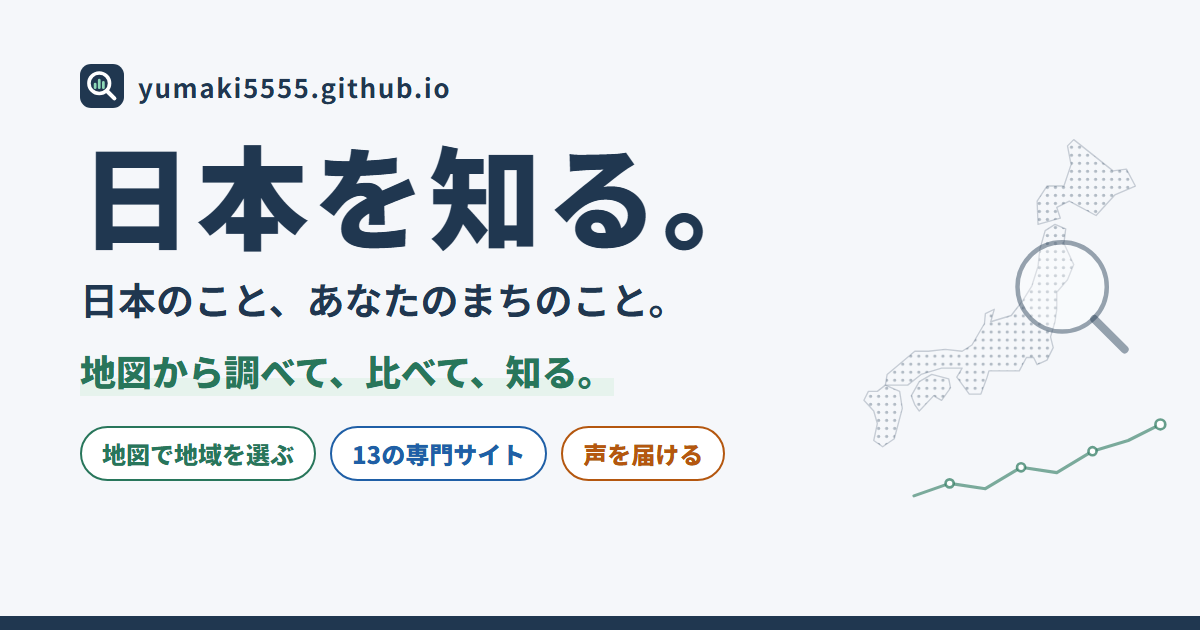
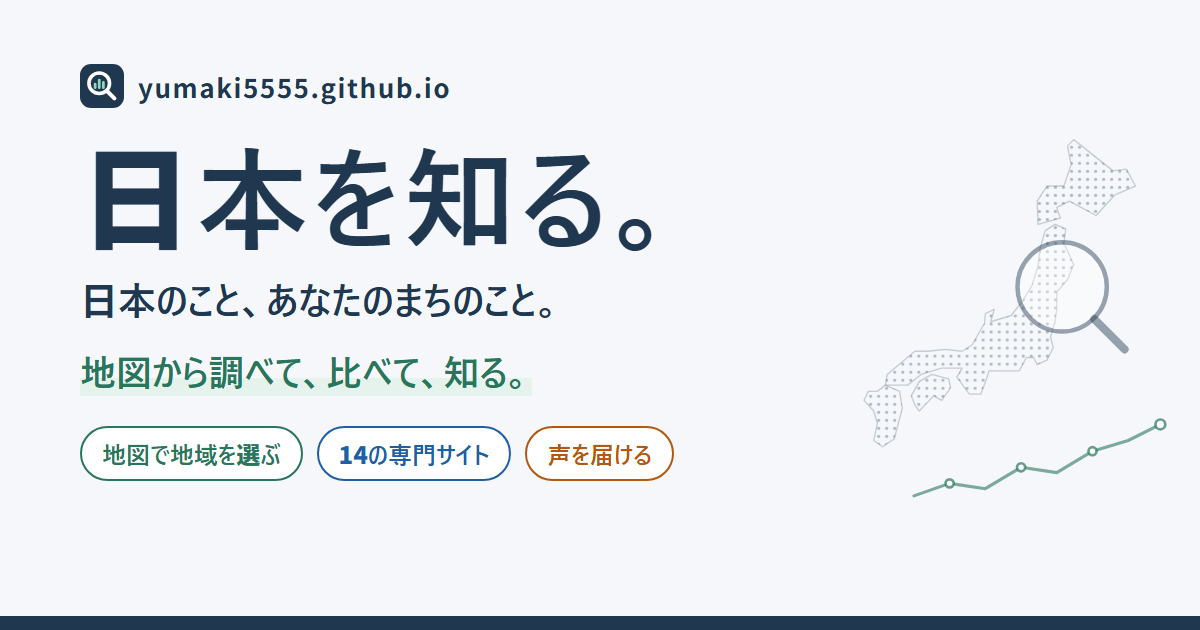
日本語学校・留学生 全国マップへのリンクを追加（テーマのカード・地域のカード・共通メニュー）

diff --git a/index.html b/index.html
@@ -4,12 +4,12 @@
 <meta charset="utf-8">
 <meta name="viewport" content="width=device-width, initial-scale=1">
 <title>日本を知る。｜地図から調べて、比べて、知る。</title>
-<meta name="description" content="日本地図で地域を選ぶと、外国人住民・モスク・民泊・多文化共生の予算・自治体の財政・海外との協定・意見募集・署名を、13の専門サイトでまとめて調べ始められる入口です。">
+<meta name="description" content="日本地図で地域を選ぶと、外国人住民・日本語学校・モスク・民泊・多文化共生の予算・自治体の財政・海外との協定・意見募集・署名を、14の専門サイトでまとめて調べ始められる入口です。">
 <link rel="canonical" href="https://yumaki5555.github.io/">
 <meta property="og:type" content="website">
 <meta property="og:site_name" content="日本を知る。">
 <meta property="og:title" content="日本を知る。｜地図から調べて、比べて、知る。">
-<meta property="og:description" content="日本地図で地域を選ぶと、外国人住民・モスク・民泊・多文化共生の予算・自治体の財政・海外との協定・意見募集・署名を、13の専門サイトでまとめて調べ始められる入口です。">
+<meta property="og:description" content="日本地図で地域を選ぶと、外国人住民・日本語学校・モスク・民泊・多文化共生の予算・自治体の財政・海外との協定・意見募集・署名を、14の専門サイトでまとめて調べ始められる入口です。">
 <meta property="og:url" content="https://yumaki5555.github.io/">
 <meta property="og:image" content="https://yumaki5555.github.io/ogp.png?v=20261104a">
 <meta property="og:image:width" content="1200">
@@ -31,12 +31,12 @@ setTimeout(function () { if (!window.ENTRY_READY) document.documentElement.class
 <!-- ?v= の日付は、css・js を直したら書きかえる（古いファイルが残らないように） -->
 <link rel="stylesheet" href="style.css?v=20261029i">
 <link rel="stylesheet" href="area.css?v=20261104a">
-<script src="sites.js?v=20261104a" defer></script>
-<script src="brand-icons.js?v=20261104a" defer></script>
+<script src="sites.js?v=20261106a" defer></script>
+<script src="brand-icons.js?v=20261106a" defer></script>
 <script src="site-cards.js?v=20261029g" defer></script>
 <script src="main.js?v=20261029d" defer></script>
 <script src="data/japan-map.js?v=20261028g" defer></script>
-<script src="region-topics.js?v=20261104a" defer></script>
+<script src="region-topics.js?v=20261106a" defer></script>
 <script src="region.js?v=20261029d" defer></script>
 </head>
 <body>
@@ -127,7 +127,7 @@ setTimeout(function () { if (!window.ENTRY_READY) document.documentElement.class
             <span class="section-icon"><svg class="ico" viewBox="0 0 24 24" aria-hidden="true" focusable="false"><path d="M12 21s-6.5-5.6-6.5-11a6.5 6.5 0 0 1 13 0c0 5.4-6.5 11-6.5 11z"/><circle cx="12" cy="10" r="2.4"/></svg></span>
             <div>
               <h2 id="h-area" tabindex="-1">地域から調べる</h2>
-              <p>地図で都道府県を押すか、名前で探してください。選んだ地域の情報を9つの専門サイトで、国全体の政策と世界の感染症も2つのサイトで調べられます。</p>
+              <p>地図で都道府県を押すか、名前で探してください。選んだ地域の情報を10の専門サイトで、国全体の政策と世界の感染症も2つのサイトで調べられます。</p>
             </div>
           </div>
 
@@ -177,7 +177,7 @@ setTimeout(function () { if (!window.ENTRY_READY) document.documentElement.class
         </div>
       </div>
 
-      <!-- 情報の画面：選んだ地域の名前（スクロールしても上に残る）と9つのカード -->
+      <!-- 情報の画面：選んだ地域の名前（スクロールしても上に残る）と10のカード -->
       <div class="area-result" id="area-result" aria-labelledby="area-result-title">
         <div class="area-current">
           <svg class="area-mini" aria-hidden="true" focusable="false" hidden></svg>
@@ -212,7 +212,7 @@ setTimeout(function () { if (!window.ENTRY_READY) document.documentElement.class
   <div class="themes-head" id="themes">
     <div class="wrap">
       <h2>テーマから探す</h2>
-      <p>13のサイトを、目的別に紹介しています。カードやボタンを押すと、それぞれのサイトが新しいタブで開きます。</p>
+      <p>14のサイトを、目的別に紹介しています。カードやボタンを押すと、それぞれのサイトが新しいタブで開きます。</p>
       <nav class="theme-jump" aria-label="テーマの分類">
         <a href="#research" class="cat-research">調べる・比較する<span class="tj-n"><span data-count="research">8</span>サイト</span></a>
         <a href="#learn" class="cat-learn">わかりやすく学ぶ<span class="tj-n"><span data-count="learn">2</span>サイト</span></a>
@@ -236,6 +236,7 @@ setTimeout(function () { if (!window.ENTRY_READY) document.documentElement.class
 <article class="card cat-research" id="site-zititai-karte"><div class="card-head"><span class="brand-ico" aria-hidden="true"><svg viewBox="0 0 32 32" focusable="false"><g fill="#fff"><rect x="5.4" y="17.3" width="5.7" height="8.2" rx=".6"/><rect x="13.2" y="12.2" width="5.7" height="13.3" rx=".6"/><rect x="21" y="6.5" width="5.7" height="19" rx=".6"/></g></svg></span><h3 class="card-title">自治体カルテ</h3></div><p class="card-summary">自治体のお金と人口をグラフで見る</p><ul class="card-points"><li>歳入・歳出の内訳と人口の推移</li><li>全国ランキングで順位を確認</li><li>最大3自治体を並べて比較</li></ul><div class="card-extra"><p class="card-credit">運営：自治体カルテさん（X <a href="https://x.com/zititai_karte" target="_blank" rel="noopener noreferrer">@zititai_karte<span class="sr-only">（新しいタブで開きます）</span></a>）</p></div><div class="card-foot"><a class="btn-site" href="https://www.zititai-karte.com/" target="_blank" rel="noopener noreferrer" aria-label="自治体カルテのサイトを見る（新しいタブで開きます）">サイトを見る<svg class="ico" viewBox="0 0 24 24" aria-hidden="true" focusable="false"><path d="M14 4.5h5.5V10"/><path d="M19.5 4.5 11 13"/><path d="M17.5 14v4.5a1 1 0 0 1-1 1h-11a1 1 0 0 1-1-1v-11a1 1 0 0 1 1-1H10"/></svg></a></div></article>
 <article class="card cat-research" id="site-tabunka-yosan"><div class="card-head"><span class="brand-ico" aria-hidden="true"><svg viewBox="0 0 32 32" focusable="false"><path fill="#fff" d="M14 18H24A10 10 0 1 1 14 8ZM18 14V4A10 10 0 0 1 28 14Z"/></svg></span><h3 class="card-title">全国 多文化共生予算マップ</h3></div><p class="card-summary">外国人に関係する事業の予算を調べる</p><ul class="card-points"><li>日本語学習・相談・学校支援などの予算と決算</li><li>使い道と財源の内訳、ほかの自治体・年度との比較</li><li>地図・自治体名から探す</li></ul><div class="card-extra"><p class="card-note">調べた自治体から順に公開中</p><p class="card-guide"><a class="pair-link" href="https://yumaki5555.github.io/tabunka-yosan/#/guide" target="_blank" rel="noopener noreferrer">まず3分で知る<svg class="ico" viewBox="0 0 24 24" aria-hidden="true" focusable="false"><path d="M14 4.5h5.5V10"/><path d="M19.5 4.5 11 13"/><path d="M17.5 14v4.5a1 1 0 0 1-1 1h-11a1 1 0 0 1-1-1v-11a1 1 0 0 1 1-1H10"/></svg><span class="sr-only">（3分でわかる 多文化共生予算が新しいタブで開きます）</span></a></p><p class="card-updated" data-update-url="https://yumaki5555.github.io/tabunka-yosan/" hidden></p></div><div class="card-foot"><a class="btn-site" href="https://yumaki5555.github.io/tabunka-yosan/" target="_blank" rel="noopener noreferrer" aria-label="全国 多文化共生予算マップのサイトを見る（新しいタブで開きます）">サイトを見る<svg class="ico" viewBox="0 0 24 24" aria-hidden="true" focusable="false"><path d="M14 4.5h5.5V10"/><path d="M19.5 4.5 11 13"/><path d="M17.5 14v4.5a1 1 0 0 1-1 1h-11a1 1 0 0 1-1-1v-11a1 1 0 0 1 1-1H10"/></svg></a></div></article>
 <article class="card cat-research" id="site-zairyu"><div class="card-head"><span class="brand-ico" aria-hidden="true"><svg viewBox="0 0 32 32" focusable="false"><g fill="#fff"><rect x="5" y="16" width="6" height="10" rx="1"/><rect x="13" y="6" width="6" height="20" rx="1"/><rect x="21" y="12" width="6" height="14" rx="1"/></g></svg></span><h3 class="card-title">数でみる在留外国人</h3></div><p class="card-summary">外国人住民の数を地域・国籍で調べる</p><ul class="card-points"><li>都道府県・市区町村・国籍から人数を検索</li><li>在留資格（日本に住むための資格）ごとの内訳</li><li>1959年からの推移を地図で再生・半期ごとの速報</li></ul><div class="card-extra"><p class="pair"><a class="pair-link" href="https://nihon-kurashi-zairyu-guide.sunlitmole256.chatgpt.site/" target="_blank" rel="noopener noreferrer">図でやさしく知る<svg class="ico" viewBox="0 0 24 24" aria-hidden="true" focusable="false"><path d="M14 4.5h5.5V10"/><path d="M19.5 4.5 11 13"/><path d="M17.5 14v4.5a1 1 0 0 1-1 1h-11a1 1 0 0 1-1-1v-11a1 1 0 0 1 1-1H10"/></svg><span class="sr-only">（図で見る、日本に住む外国人が新しいタブで開きます）</span></a></p><p class="card-updated" data-update-url="https://yumaki5555.github.io/zairyu/index.html" hidden></p></div><div class="card-foot"><a class="btn-site" href="https://yumaki5555.github.io/zairyu/index.html" target="_blank" rel="noopener noreferrer" aria-label="数でみる在留外国人のサイトを見る（新しいタブで開きます）">サイトを見る<svg class="ico" viewBox="0 0 24 24" aria-hidden="true" focusable="false"><path d="M14 4.5h5.5V10"/><path d="M19.5 4.5 11 13"/><path d="M17.5 14v4.5a1 1 0 0 1-1 1h-11a1 1 0 0 1-1-1v-11a1 1 0 0 1 1-1H10"/></svg></a></div></article>
+<article class="card cat-research" id="site-nihongo-school-map"><div class="card-head"><span class="brand-ico" aria-hidden="true"><svg viewBox="0 0 32 32" focusable="false"><path d="M5 7h22v20H5z" fill="#fff"/><g fill="currentColor"><rect x="7.5" y="10" width="4" height="4"/><rect x="14" y="10" width="4" height="4"/><rect x="20.5" y="10" width="4" height="4"/><rect x="7.5" y="17" width="4" height="4"/><rect x="20.5" y="17" width="4" height="4"/><rect x="13.5" y="18.5" width="5" height="8.5"/></g></svg></span><h3 class="card-title">日本語学校・留学生 全国マップ</h3></div><p class="card-summary">日本語学校の数と場所を地図で調べる</p><ul class="card-points"><li>都道府県・市区町村から学校を探す</li><li>地域ごとの学校の数を見る</li><li>国の資料と各校サイトの出典を確認</li></ul><div class="card-extra"><p class="card-guide"><a class="pair-link" href="https://yumaki5555.github.io/nihongo-school-map/guide.html" target="_blank" rel="noopener noreferrer">まず3分で知る<svg class="ico" viewBox="0 0 24 24" aria-hidden="true" focusable="false"><path d="M14 4.5h5.5V10"/><path d="M19.5 4.5 11 13"/><path d="M17.5 14v4.5a1 1 0 0 1-1 1h-11a1 1 0 0 1-1-1v-11a1 1 0 0 1 1-1H10"/></svg><span class="sr-only">（3分でわかる 日本語学校と留学生が新しいタブで開きます）</span></a></p><p class="card-updated" data-update-url="https://yumaki5555.github.io/nihongo-school-map/" hidden></p></div><div class="card-foot"><a class="btn-site" href="https://yumaki5555.github.io/nihongo-school-map/" target="_blank" rel="noopener noreferrer" aria-label="日本語学校・留学生 全国マップのサイトを見る（新しいタブで開きます）">サイトを見る<svg class="ico" viewBox="0 0 24 24" aria-hidden="true" focusable="false"><path d="M14 4.5h5.5V10"/><path d="M19.5 4.5 11 13"/><path d="M17.5 14v4.5a1 1 0 0 1-1 1h-11a1 1 0 0 1-1-1v-11a1 1 0 0 1 1-1H10"/></svg></a></div></article>
 <article class="card cat-research" id="site-minpaku-map"><div class="card-head"><span class="brand-ico" aria-hidden="true"><svg viewBox="0 0 32 32" focusable="false"><g fill="#fff"><path d="M4 6h4v12h20v8h-4v-4H8v4H4z"/><rect x="10" y="12" width="6" height="4" rx="2"/><path d="M18 18v-4a2 2 0 0 1 2-2h6a2 2 0 0 1 2 2v4z"/></g></svg></span><h3 class="card-title">民泊・旅館業マップ</h3></div><p class="card-summary">民泊・旅館業の施設を地図で探す</p><ul class="card-points"><li>住所・市区町村で探して地図の点で確認</li><li>市区町村ごとの件数ランキング</li><li>前回の資料からの増減</li></ul><div class="card-extra"><p class="card-updated" data-update-url="https://yumaki5555.github.io/minpaku-map/" hidden></p></div><div class="card-foot"><a class="btn-site" href="https://yumaki5555.github.io/minpaku-map/" target="_blank" rel="noopener noreferrer" aria-label="民泊・旅館業マップのサイトを見る（新しいタブで開きます）">サイトを見る<svg class="ico" viewBox="0 0 24 24" aria-hidden="true" focusable="false"><path d="M14 4.5h5.5V10"/><path d="M19.5 4.5 11 13"/><path d="M17.5 14v4.5a1 1 0 0 1-1 1h-11a1 1 0 0 1-1-1v-11a1 1 0 0 1 1-1H10"/></svg></a></div></article>
 <article class="card cat-research" id="site-mosque-map"><div class="card-head"><span class="brand-ico" aria-hidden="true"><svg viewBox="0 0 32 32" focusable="false"><path d="M16.5 2.8a3 3 0 1 0 2.3 5a2.3 2.3 0 1 1-2.3-5z" fill="#BFD7F2"/><path d="M16 9C12.5 13 6 14 6 20h20c0-6-6.5-7-10-11z" fill="#fff"/><path d="M4.5 21h23v7h-23z" fill="#fff"/><path d="M13.8 28v-3.5a2.2 2.2 0 0 1 4.4 0V28z" fill="currentColor"/></svg></span><h3 class="card-title">日本のモスク情報</h3></div><p class="card-summary">モスク・礼拝所を出典付きで調べる</p><ul class="card-points"><li>地図・都道府県から施設を探す</li><li>運営団体・建設計画・寄付の募集</li><li>葬儀・土葬墓地の調査結果</li></ul><div class="card-extra"><p class="pair"><a class="pair-link" href="https://mosque-info-explorer.sunlitmole256.chatgpt.site/" target="_blank" rel="noopener noreferrer">図でやさしく知る<svg class="ico" viewBox="0 0 24 24" aria-hidden="true" focusable="false"><path d="M14 4.5h5.5V10"/><path d="M19.5 4.5 11 13"/><path d="M17.5 14v4.5a1 1 0 0 1-1 1h-11a1 1 0 0 1-1-1v-11a1 1 0 0 1 1-1H10"/></svg><span class="sr-only">（日本のモスクを知るが新しいタブで開きます）</span></a></p><p class="card-updated" data-update-url="https://yumaki5555.github.io/mosque-map/" hidden></p></div><div class="card-foot"><a class="btn-site" href="https://yumaki5555.github.io/mosque-map/" target="_blank" rel="noopener noreferrer" aria-label="日本のモスク情報のサイトを見る（新しいタブで開きます）">サイトを見る<svg class="ico" viewBox="0 0 24 24" aria-hidden="true" focusable="false"><path d="M14 4.5h5.5V10"/><path d="M19.5 4.5 11 13"/><path d="M17.5 14v4.5a1 1 0 0 1-1 1h-11a1 1 0 0 1-1-1v-11a1 1 0 0 1 1-1H10"/></svg></a></div></article>
 <article class="card cat-research" id="site-kansensho"><div class="card-head"><span class="brand-ico" aria-hidden="true"><svg viewBox="0 0 32 32" focusable="false"><path d="M5 17h5l3-7 5 13 3-6h6" fill="none" stroke="#fff" stroke-width="2.6" stroke-linecap="round" stroke-linejoin="round"/></svg></span><h3 class="card-title">世界の感染症と日本の水際対策</h3></div><p class="card-summary">感染症の国別状況と水際対策を調べる</p><ul class="card-points"><li>HIV・梅毒・はしか・結核を国別に比較</li><li>国・在留資格から入国時の検査を確認</li><li>日本の患者数の推移と治療費の負担</li></ul><div class="card-extra"><p class="card-guide"><a class="pair-link" href="https://yumaki5555.github.io/kansensho/#sanpun-tb" target="_blank" rel="noopener noreferrer">まず3分で知る<svg class="ico" viewBox="0 0 24 24" aria-hidden="true" focusable="false"><path d="M14 4.5h5.5V10"/><path d="M19.5 4.5 11 13"/><path d="M17.5 14v4.5a1 1 0 0 1-1 1h-11a1 1 0 0 1-1-1v-11a1 1 0 0 1 1-1H10"/></svg><span class="sr-only">（まず3分でわかる（結核編・HIV/エイズ編）が新しいタブで開きます）</span></a></p><p class="card-updated" data-update-url="https://yumaki5555.github.io/kansensho/" hidden></p></div><div class="card-foot"><a class="btn-site" href="https://yumaki5555.github.io/kansensho/" target="_blank" rel="noopener noreferrer" aria-label="世界の感染症と日本の水際対策のサイトを見る（新しいタブで開きます）">サイトを見る<svg class="ico" viewBox="0 0 24 24" aria-hidden="true" focusable="false"><path d="M14 4.5h5.5V10"/><path d="M19.5 4.5 11 13"/><path d="M17.5 14v4.5a1 1 0 0 1-1 1h-11a1 1 0 0 1-1-1v-11a1 1 0 0 1 1-1H10"/></svg></a></div></article>
@@ -279,7 +280,7 @@ setTimeout(function () { if (!window.ENTRY_READY) document.documentElement.class
   </div>
 
   <noscript>
-    <div class="wrap"><p class="noscript">地図と地域の選択を使うには、ブラウザの JavaScript を有効にしてください。13のサイトは、上の「テーマから探す」から開けます。</p></div>
+    <div class="wrap"><p class="noscript">地図と地域の選択を使うには、ブラウザの JavaScript を有効にしてください。14のサイトは、上の「テーマから探す」から開けます。</p></div>
   </noscript>
 
   <section class="about" id="about" aria-labelledby="h-about">
@@ -327,7 +328,7 @@ setTimeout(function () { if (!window.ENTRY_READY) document.documentElement.class
           <ul>
             <li>地域を選んだときに、各専門サイトが公開しているデータファイルをブラウザで読み込み、その地域の分を数えて表示します。このサイトに数値を書き写してはいないので、各サイトが更新されると、数値も新しくなります。</li>
             <li>数値は、各サイトが集計した時点のものです（リアルタイムの値ではありません）。カードに「〇年〇月末時点」「〇月〇日集計」のように書いています。</li>
-            <li>読み込むのは、在留外国人＝その地域のページ、モスク＝施設の一覧（CSV）、民泊・パブコメ・署名＝各サイトのページに入っているデータ、多文化共生予算・MOU＝件数のまとめファイルです。自治体カルテはほかの方のサイトのため、数値は読み込みません。</li>
+            <li>読み込むのは、在留外国人＝その地域のページ、モスク＝施設の一覧（CSV）、民泊・パブコメ・署名＝各サイトのページに入っているデータ、多文化共生予算・MOU・日本語学校＝件数のまとめファイルです。自治体カルテはほかの方のサイトのため、数値は読み込みません。</li>
             <li>同じデータは、ページを開いている間は読み直しません。地域を変えても、一度読んだデータを使います。地域を選ぶまでは、何も読み込みません。</li>
             <li>数値の下の補足（在留外国人の1年前との差、民泊の前回の資料との差、多文化共生予算のいちばん大きい使い道、パブコメのいちばん近い締切）は、同じ条件で比べられるときだけ出しています。比べる元がないとき・調べる範囲が変わったときは出しません。</li>
             <li>在留外国人の1年前との差は、出入国在留管理庁「在留外国人統計」の同じ時点（例：12月末と前年12月末）の比較です。民泊の前回比は、自治体が公表した同じ一覧の前の版との差で、新しく加えた県や、県全体の一覧から市町村に分けた数には出しません。</li>

diff --git a/region-topics.js b/region-topics.js
@@ -1,4 +1,4 @@
-// 「地域から調べる」のカード（地域の9分野＋全国共通の2サイト）
+// 「地域から調べる」のカード（地域の10分野＋全国共通の2サイト）
 // それぞれのカードは、選んだ地域を専門サイトへ引き継ぐリンクと、取れるときだけ代表的な数値を出します。
 // 全国共通の2サイト（政策ログJP・世界の感染症と日本の水際対策）は地域を引き継がず、数値も出しません（「全国共通」と表示）。
 //
@@ -24,6 +24,7 @@
     mosque: "https://mosque-info-explorer.sunlitmole256.chatgpt.site/",               // 日本のモスクを知る（region.html?pref=県名 で県の要約）
     tabunka: GH + "tabunka-yosan/#/guide",                                             // 3分でわかる 多文化共生予算
     mou: GH + "mou-map/#/guide",                                                       // 3分でわかるMOU
+    school: GH + "nihongo-school-map/guide.html",                                      // 3分でわかる 日本語学校と留学生
     kansensho: GH + "kansensho/#sanpun-tb"                                             // まず3分でわかる（結核編。HIV/エイズ編へも切りかえられる）
   };
   var TIMEOUT = 15000; // これより長くかかったら「取得失敗」にする（ミリ秒）
@@ -135,6 +136,7 @@
   var load = {
     minpaku: function () { return once("minpaku", function () { return getText(GH + "minpaku-map/").then(function (h) { return embedded(h, "site-data"); }); }); },
     tabunka: function () { return once("tabunka", function () { return getJSON(GH + "tabunka-yosan/data/dist/summary.json"); }); },
+    school: function () { return once("school", function () { return getJSON(GH + "nihongo-school-map/data/regions.json"); }); },
     mou: function () { return once("mou", function () { return getJSON(GH + "mou-map/data/build/summary.json"); }); },
     pubPref: function () { return once("pubPref", function () { return getText(GH + "pubcome/pref/").then(function (h) { return embedded(h, "data"); }); }); },
     pubCity: function () { return once("pubCity", function () { return getText(GH + "pubcome/city/").then(function (h) { return embedded(h, "data"); }); }); },
@@ -185,7 +187,7 @@
     }
   };
 
-  // ---------- 9つのカード ----------
+  // ---------- 10のカード ----------
   // icon   … アイコンの形（brand-icons.js の名前。リンク先のファビコンと同じ形）
   // q      … 地域名を入れた1行の問いかけ（n＝選んだ地域の名前、a＝選んだ地域）
   // see    … そのサイトで見られることを短く（文字列、または n・a を受け取る関数）
@@ -257,6 +259,37 @@
               note: (w ? w[1] + "年" + (+w[2]) + "月末時点。" : "") + "出典：出入国在留管理庁「在留外国人統計」"
             }
           };
+        });
+      }
+    },
+    {
+      id: "school", group: "now", icon: "school", title: "日本語学校", site: "日本語学校・留学生 全国マップ",
+      top: GH + "nihongo-school-map/",
+      q: function (n) { return n ? n + "に日本語学校はいくつある？" : "日本に日本語学校はいくつある？"; },
+      see: "学校の場所と数を地図で見る",
+      guide: function () { return { label: "まず3分で知る", site: "3分でわかる 日本語学校と留学生", href: GUIDE.school }; },
+      link: function (a) {
+        var base = GH + "nihongo-school-map/?pref=" + a.pref;
+        // マップの政令指定都市は区ごとなので、市全体を選んだときは都道府県のページを開く
+        if (a.muni && a.muni.seirei) return { href: base, scope: "wider", text: pname(a) + "のページが開きます" };
+        if (a.muni) return { href: base + "&city=" + a.muni.code.slice(0, 5), scope: "exact", text: a.muni.name + "を選んだ状態で開きます" };
+        return { href: base, scope: "exact", text: pname(a) + "のページが開きます" };
+      },
+      resolve: function (a) {
+        return load.school().then(function (R) {
+          var p = R.prefs[a.pref];
+          if (!p) return {};
+          var when = "（" + jdate(R.generated) + "更新）";
+          if (!a.muni) return { stat: { value: num(p.n) + "<small>校</small>", note: "国の資料をもとに数えています" + when + "。" } };
+          // 住所が分からない学校は市区町村を決められないので、市区町村の数は住所を確認できた学校だけ
+          var n = 0;
+          (p.cities || []).forEach(function (c) {
+            if (a.muni.seirei ? c.name.indexOf(a.muni.name) === 0 : c.code === a.muni.code.slice(0, 5)) n += c.n;
+          });
+          var date = jdate(R.generated) + "更新。";
+          if (!n && p.no_city) return { stat: { state: "unconfirmed", value: "見つかっていません", note: date } };
+          if (!n) return { stat: { state: "zero", value: "0<small>校</small>", note: date } };
+          return { stat: { value: num(n) + "<small>校</small>", note: date } };
         });
       }
     },

diff --git a/brand-icons.js b/brand-icons.js
@@ -8,6 +8,7 @@
 //   zairyu … 数でみる在留外国人（3本の棒グラフ）   tabunka … 全国 多文化共生予算マップ（円グラフ）
 //   minpaku … 民泊・旅館業マップ（ベッド）          mosque … 日本のモスク情報（ドームと三日月）
 //   kansensho … 世界の感染症と日本の水際対策（心拍の線）
+//   school … 日本語学校・留学生 全国マップ（窓と入口のある校舎）
 //   pubcome … パブコメ掲示板（吹き出し）            shomei … 署名掲示板（署名用紙とペン）
 //   todokeru … 声を届ける（線の吹き出し。サイトのファビコンと同じ形）
 //   mou … 日本と世界のMOU・協定マップ（地球。2026年10月29日夜にサイトのファビコンが「M」から地球に変わったのに合わせた）
@@ -36,6 +37,9 @@
       '<path d="M16 9C12.5 13 6 14 6 20h20c0-6-6.5-7-10-11z" fill="#fff"/>' +
       '<path d="M4.5 21h23v7h-23z" fill="#fff"/>' +
       '<path d="M13.8 28v-3.5a2.2 2.2 0 0 1 4.4 0V28z" fill="currentColor"/>',
+    school:
+      '<path d="M5 7h22v20H5z" fill="#fff"/>' +
+      '<g fill="currentColor"><rect x="7.5" y="10" width="4" height="4"/><rect x="14" y="10" width="4" height="4"/><rect x="20.5" y="10" width="4" height="4"/><rect x="7.5" y="17" width="4" height="4"/><rect x="20.5" y="17" width="4" height="4"/><rect x="13.5" y="18.5" width="5" height="8.5"/></g>',
     kansensho:
       '<path d="M5 17h5l3-7 5 13 3-6h6" fill="none" stroke="#fff" stroke-width="2.6" stroke-linecap="round" stroke-linejoin="round"/>',
     todokeru:

diff --git a/shared/site-nav.js b/shared/site-nav.js
@@ -26,6 +26,7 @@
     {"id":"zititai-karte","name":"自治体カルテ","url":"https://www.zititai-karte.com/","category":"research","other":true},
     {"id":"tabunka-yosan","name":"全国 多文化共生予算マップ","url":"https://yumaki5555.github.io/tabunka-yosan/","category":"research"},
     {"id":"zairyu","name":"数でみる在留外国人","url":"https://yumaki5555.github.io/zairyu/index.html","category":"research"},
+    {"id":"nihongo-school-map","name":"日本語学校・留学生 全国マップ","url":"https://yumaki5555.github.io/nihongo-school-map/","category":"research"},
     {"id":"minpaku-map","name":"民泊・旅館業マップ","url":"https://yumaki5555.github.io/minpaku-map/","category":"research"},
     {"id":"mosque-map","name":"日本のモスク情報","url":"https://yumaki5555.github.io/mosque-map/","category":"research"},
     {"id":"kansensho","name":"世界の感染症と日本の水際対策","url":"https://yumaki5555.github.io/kansensho/","category":"research"},

diff --git a/sites.js b/sites.js
@@ -82,6 +82,17 @@ window.SITES = [
     pair: { id: "zairyu-guide", label: "図でやさしく知る", nameless: true }
   },
   {
+    id: "nihongo-school-map",
+    category: "research",
+    name: "日本語学校・留学生 全国マップ",
+    url: "https://yumaki5555.github.io/nihongo-school-map/",
+    icon: "school",
+    summary: "日本語学校の数と場所を地図で調べる",
+    points: ["都道府県・市区町村から学校を探す", "地域ごとの学校の数を見る", "国の資料と各校サイトの出典を確認"],
+    guide: { label: "まず3分で知る", site: "3分でわかる 日本語学校と留学生", url: "https://yumaki5555.github.io/nihongo-school-map/guide.html" },
+    checkUpdate: true
+  },
+  {
     id: "minpaku-map",
     category: "research",
     name: "民泊・旅館業マップ",

diff --git a/_ogp/ogp.html b/_ogp/ogp.html
@@ -53,7 +53,7 @@ h1{margin:22px 0 0;color:var(--navy);font-weight:900;font-size:112px;line-height
   <p class="catch">地図から調べて、比べて、知る。</p>
   <div class="chips">
     <span class="chip" style="--c:var(--learn)">地図で地域を選ぶ</span>
-    <span class="chip" style="--c:var(--research)">13の専門サイト</span>
+    <span class="chip" style="--c:var(--research)">14の専門サイト</span>
     <span class="chip" style="--c:var(--participate)">声を届ける</span>
   </div>
 </div>

diff --git a/README.md b/README.md
@@ -7,12 +7,12 @@
 | ファイル | 役割 |
 |---|---|
 | `index.html` | ページの骨組み（入口の2つのタブ「地域から調べる」「テーマから探す」・このサイトについて・掲載情報について） |
-| `sites.js` | **掲載サイトの一覧**（テーマから探すの12枚のカード）。サイトを足す・直すときはここだけ書きかえる |
+| `sites.js` | **掲載サイトの一覧**（テーマから探すの14枚のカード）。サイトを足す・直すときはここだけ書きかえる |
 | `site-cards.js` | 「テーマから探す」のカードのHTMLを作る（`main.js` と `_tools/build_cards.mjs` が使う） |
 | `shared/site-nav.js` | **全サイト共通メニュー**（日本を知る。｜声を届ける｜ほかのサイト ▾）。各サイトが読み込む部品。ここを直すと、置いたサイトすべてに効く（公開前に見本で確認すること）。一覧の部分は `_tools/build_cards.mjs` が `sites.js` から書きこむ |
 | `main.js` | **ページの状態と URL をまとめて扱う**（`window.PortalState`。URL を読む・書きかえる・戻る／進むはここだけ）、入口の2つのタブの切りかえ、テーマのカードを sites.js から作り直す（テーマを初めて開いたとき）、スマホのメニュー、上へ戻るボタン、ページの更新日の読み取り |
 | `region.js` | 「地域から調べる」の地図（地方ごとの拡大）・名前で探す・一覧から選ぶ・選ぶ画面と情報の画面の切りかえ。地域が変わったら `PortalState.set` で URL を頼み、`PortalState.on` で戻る／進むを受け取る（自分では URL を読まない） |
-| `region-topics.js` | **地域を選んだときのカード**（地域の9分野＋全国共通の2サイト）。各専門サイトへの地域の引き継ぎ方と、代表的な数値の読み取り方 |
+| `region-topics.js` | **地域を選んだときのカード**（地域の10分野＋全国共通の2サイト）。各専門サイトへの地域の引き継ぎ方と、代表的な数値の読み取り方 |
 | `style.css` / `area.css` | 見た目（`area.css` は地域から調べるの部分） |
 | `data/japan-map.js` | 都道府県の地図（`_tools/build_map.py` で作る。手で直さない） |
 | `data/municipalities.json` | 市区町村の一覧（`_tools/build_municipalities.py` で作る。手で直さない） |
@@ -57,7 +57,7 @@
 
 ## 地域から調べる
 
-- 地域を選ぶ前は「選ぶ画面」（地図・名前で探す・一覧から選ぶ・地域の選択例）を出し、選んだら閉じて「情報の画面」（地域の名前と、地域の9分野＋全国共通2サイトのカード）を出します。「地域を変える」でまた開きます。地域つきのURLで開いたときは、最初から情報の画面です。
+- 地域を選ぶ前は「選ぶ画面」（地図・名前で探す・一覧から選ぶ・地域の選択例）を出し、選んだら閉じて「情報の画面」（地域の名前と、地域の10分野＋全国共通2サイトのカード）を出します。「地域を変える」でまた開きます。地域つきのURLで開いたときは、最初から情報の画面です。
 - 市区町村は、情報の画面の「市区町村で絞り込む」でも選べます。「〇〇県全体に戻る」で都道府県に戻れます。
 - 地域は URL の `?area=` で表します。都道府県は2けた（例 `?area=13`）、市区町村は全国地方公共団体コードの6けた（例 `?area=131083` 江東区）。このURLを共有すると、同じ地域を選んだ状態で開きます。
 - 政令指定都市は市全体で1つ（区は選べません）。北方領土の6村は、どの専門サイトにもページがないので入れていません。
@@ -65,7 +65,7 @@
 - 数値は、各専門サイトが公開しているデータを、地域を選んだときにその場で読み取ります（入口サイトに数値を書き写していないので、各サイトが更新されれば自動で新しくなります）。
 - 「0件」と、それ以外を必ず分けます：確認済みで0件／データ未掲載／調査対象外／未確認／取得失敗。読み込みに15秒以上かかったときも「取得失敗」です（0件とは書かない）。
 - 各カードには、どのページが開くかを短い言葉で書きます：✓ 地域を引き継ぎ／！ 都道府県まで（市区町村のページがない）／－ 引き継ぎなし（サイトのトップ）／○ 全国（地域を選ぶ前）／全国共通（下の2サイト）。
-- 9分野の下に「D 全国共通の情報も調べる」として、政策ログJP（国の政策・法案）と世界の感染症と日本の水際対策を、同じ形のカードで出します。国全体・世界の情報なので、地域は引き継がず（トップページが開く）、地域ごとの数値も出しません。「テーマから探す」の13サイトのカードはそのまま残しています。
+- 10分野の下に「D 全国共通の情報も調べる」として、政策ログJP（国の政策・法案）と世界の感染症と日本の水際対策を、同じ形のカードで出します。国全体・世界の情報なので、地域は引き継がず（トップページが開く）、地域ごとの数値も出しません。「テーマから探す」の14サイトのカードはそのまま残しています。
 - リンクは、データを読む前に決められる確実な形を先に出し、データを読んで市区町村のページがあると分かったら差しかえます（民泊・MOUの市区町村・パブコメの市区町村）。データが読めなくても、カードとリンクは残ります。
 - カードは「分野名 → この地域で分かること → 数値 → 時点・範囲 → 開くページ → 詳しく調べるボタン」の6段で、同じ行のカードの段の高さをそろえています。
 
@@ -73,6 +73,7 @@
 
 | カード | 開くページ | 市区町村 | 数値のもと |
 |---|---|---|---|
+| 日本語学校 | `nihongo-school-map/?pref=<2けた>`、市区町村は `&city=<5けた>` | ○（政令指定都市は市全体がマップにないので都道府県のページ） | `data/regions.json`（都道府県は全校、市区町村は住所を確認できた学校の数） |
 | 在留外国人 | `zairyu/pref-<ローマ字>.html`、`muni-<5けた>.html`、政令市は `city-<市名>.html` | ○ | 開くページに入っている総数・国籍の内わけ（在留外国人統計） |
 | モスク | 都道府県 `mosque-map/pref-<ローマ字>.html`、市区町村 `area.html?pref=都道府県名&city=市区町村名` | ○ | `mosque_locations.csv` の「種類」ごとの数 |
 | 民泊・旅館業 | `minpaku-map/?pref=都道府県名&city=市区町村名#map-sec` | ○（15都道府県のみ） | ページに入っている市区町村ごとの件数 |
